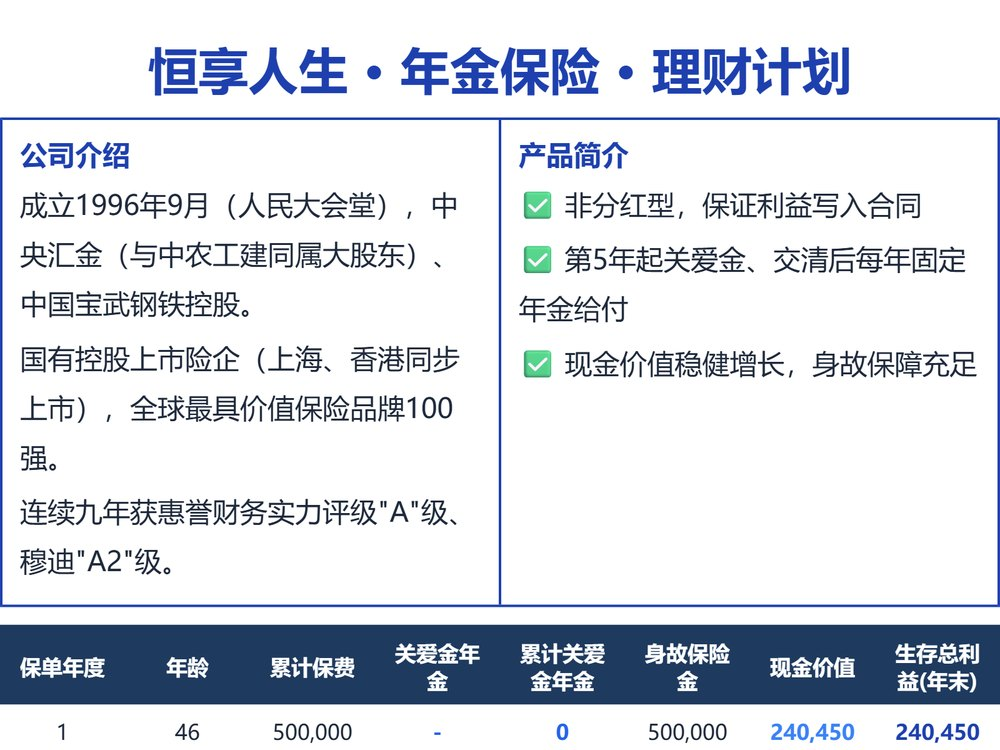
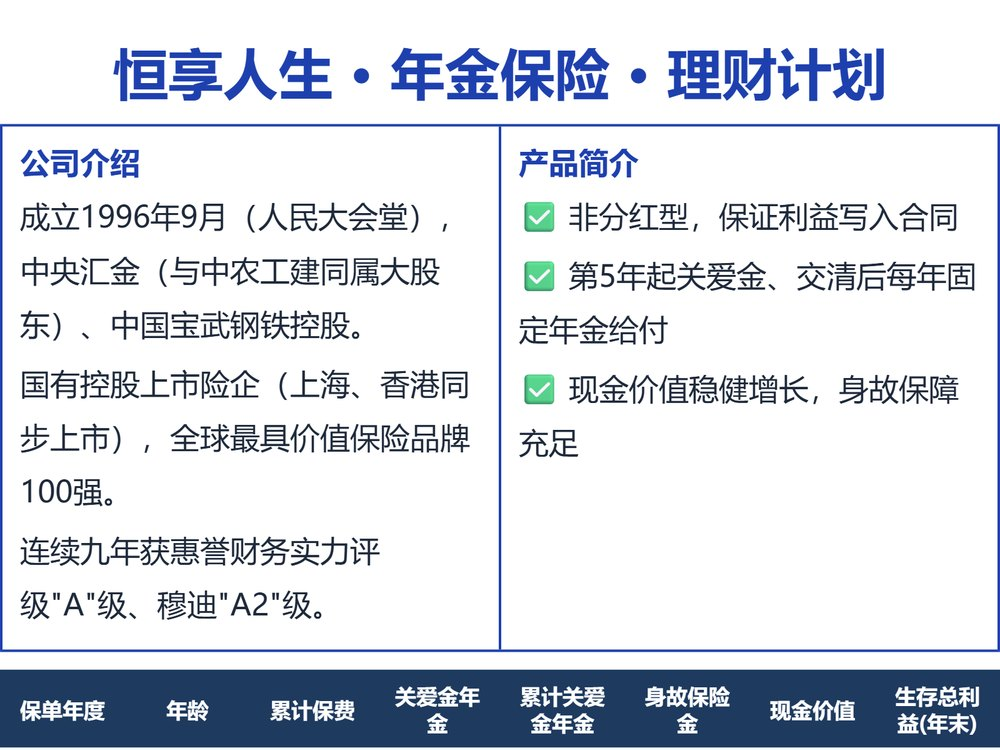
V3.0 导出图二次优化：统一放大表格字号28px/标题44px、储备期高亮、盈满鑫加宽至1800px、首页预览图同步更新

Changed region(s): [[0.0, 0.0613, 1.0, 1.0]]

diff --git a/calculator-yingmanxin.html b/calculator-yingmanxin.html
@@ -154,38 +154,39 @@ body.capturing .table-scroll{overflow-x:visible !important;}
 .combo-hl .cv{color:var(--primary);font-weight:800;font-size:18px;}
 
 /* ============ 独立隐藏导出模板（高清 PNG，不直接截取网页）============ */
-#exportRoot{position:absolute;left:-9999px;top:0;width:800px;background:#fff;z-index:-1;pointer-events:none;}
-.exp-wrap{width:800px;box-sizing:border-box;background:#fff;color:#1E293B;font-family:"PingFang SC","Microsoft YaHei",sans-serif;padding:36px;line-height:1.5;}
-.exp-title{text-align:center;font-size:40px;font-weight:800;color:var(--primary);margin:0 0 28px;letter-spacing:1px;}
+#exportRoot{position:absolute;left:-9999px;top:0;width:900px;background:#fff;z-index:-1;pointer-events:none;}
+.exp-wrap{width:900px;box-sizing:border-box;background:#fff;color:#1E293B;font-family:"PingFang SC","Microsoft YaHei",sans-serif;padding:40px;line-height:1.55;}
+.exp-title{text-align:center;font-size:44px;font-weight:800;color:var(--primary);margin:0 0 28px;letter-spacing:1px;}
 .exp-row2{display:flex;border:2px solid var(--primary);margin-bottom:18px;box-sizing:border-box;}
 .exp-box{border:2px solid var(--primary);background:#fff;padding:16px 18px;margin-bottom:18px;box-sizing:border-box;}
 .exp-row2 > .exp-box{flex:1;border:0;margin-bottom:0;}
 .exp-row2 > .exp-box:first-child{border-right:2px solid var(--primary);}
-.exp-h{background:var(--primary);color:#fff;font-size:24px;font-weight:700;padding:11px 14px;margin:-16px -18px 12px;box-sizing:border-box;}
-.exp-b{font-size:26px;line-height:1.9;color:#1E293B;}
-.exp-info{width:100%;border-collapse:collapse;table-layout:fixed;font-size:24px;border:2px solid var(--primary);box-sizing:border-box;}
+.exp-h{background:var(--primary);color:#fff;font-size:26px;font-weight:700;padding:11px 14px;margin:-16px -18px 12px;box-sizing:border-box;}
+.exp-b{font-size:28px;line-height:1.9;color:#1E293B;}
+.exp-info{width:100%;border-collapse:collapse;table-layout:fixed;font-size:26px;border:2px solid var(--primary);box-sizing:border-box;}
 .exp-info th,.exp-info td{border:1px solid var(--primary);padding:8px 6px;text-align:center;box-sizing:border-box;font-weight:600;color:#1E293B;}
 .exp-info th{background:var(--primary-bg);color:var(--primary);font-weight:700;}
 .exp-stats{display:flex;gap:12px;margin-top:12px;flex-wrap:wrap;}
-.exp-stats span{background:var(--primary-bg);border:1px solid #BFDBFE;color:var(--primary);padding:8px 16px;font-weight:700;font-size:22px;border-radius:6px;}
-.exp-main,.exp-dep{width:100%;border-collapse:collapse;table-layout:fixed;font-size:24px;box-sizing:border-box;margin-top:2px;}
-.exp-main th,.exp-main td,.exp-dep th,.exp-dep td{border:1px solid var(--primary);padding:10px 6px;text-align:center;vertical-align:middle;box-sizing:border-box;font-weight:600;color:#1E293B;}
+.exp-stats span{background:var(--primary-bg);border:1px solid #BFDBFE;color:var(--primary);padding:8px 16px;font-weight:700;font-size:24px;border-radius:6px;}
+.exp-main,.exp-dep{width:100%;border-collapse:collapse;table-layout:fixed;font-size:28px;box-sizing:border-box;margin-top:2px;}
+.exp-main th,.exp-main td,.exp-dep th,.exp-dep td{border:1px solid var(--primary);padding:12px 5px;text-align:center;vertical-align:middle;box-sizing:border-box;font-weight:600;color:#1E293B;}
 .exp-main th,.exp-dep th{background:var(--primary);color:#fff;font-weight:700;}
+.exp-main thead th{line-height:1.25;}
 .exp-main tbody tr:nth-child(even){background:#F0F9FF;}
 .exp-main .exp-total{background:#DBEAFE;}
-.exp-main .exp-reserve{background:#DBEAFE;color:#64748B;font-weight:700;text-align:center;vertical-align:middle;font-size:24px;}
+.exp-main .exp-reserve{background:#DBEAFE;color:#475569;font-weight:800;text-align:center;vertical-align:middle;font-size:28px;letter-spacing:1px;}
 .exp-dep tfoot td{border:1px solid var(--primary);padding:8px 5px;box-sizing:border-box;}
 .exp-dep .exp-foot-label{text-align:right;font-weight:700;background:var(--primary-bg);color:var(--primary);}
 .exp-dep .exp-foot-val{font-weight:800;color:var(--primary);}
-.exp-combo{width:100%;border-collapse:collapse;table-layout:fixed;font-size:24px;box-sizing:border-box;}
+.exp-combo{width:100%;border-collapse:collapse;table-layout:fixed;font-size:26px;box-sizing:border-box;}
 .exp-combo td{border:1px solid var(--primary);padding:6px 10px;box-sizing:border-box;width:25%;}
 .exp-combo .cl{background:var(--primary-bg);color:var(--primary);font-weight:700;}
 .exp-combo .cv{text-align:right;font-weight:700;color:#1E293B;}
 .exp-combo .hl{background:#DBEAFE;}
-.exp-combo .hl .cv{color:var(--primary);font-weight:800;font-size:19px;}
-.exp-note{margin-top:10px;padding:12px 14px;background:var(--primary-bg);border:1px solid #BFDBFE;border-radius:8px;font-size:20px;color:#334155;line-height:1.7;box-sizing:border-box;}
-.exp-foot{margin-top:18px;font-size:20px;color:#64748B;line-height:1.8;border-top:1px solid #E2E8F0;padding-top:10px;box-sizing:border-box;}
-.exp-foot2{margin-top:8px;font-size:20px;color:#64748B;text-align:center;letter-spacing:.5px;}
+.exp-combo .hl .cv{color:var(--primary);font-weight:800;font-size:21px;}
+.exp-note{margin-top:10px;padding:12px 14px;background:var(--primary-bg);border:1px solid #BFDBFE;border-radius:8px;font-size:22px;color:#334155;line-height:1.7;box-sizing:border-box;}
+.exp-foot{margin-top:18px;font-size:22px;color:#64748B;line-height:1.8;border-top:1px solid #E2E8F0;padding-top:10px;box-sizing:border-box;}
+.exp-foot2{margin-top:8px;font-size:22px;color:#64748B;text-align:center;letter-spacing:.5px;}
 </style>
 </head>
 <body>
@@ -802,7 +803,7 @@ async function downloadImage(){
       ctx.save();
       ctx.setTransform(1, 0, 0, 1, 0, 0);
       ctx.fillStyle = '#1E40AF';
-      ctx.font = `700 ${24 * scaleY}px Arial, "Microsoft YaHei", sans-serif`;
+      ctx.font = `700 ${28 * scaleY}px Arial, "Microsoft YaHei", sans-serif`;
       ctx.textAlign = 'center';
       ctx.textBaseline = 'middle';
       ctx.fillText(

diff --git a/calculator-hengxiang.html b/calculator-hengxiang.html
@@ -76,20 +76,21 @@
   .plan-intro h4{color:#1E40AF;font-size:14px;font-weight:700;margin-bottom:6px;}
   .plan-intro p{font-size:12.5px;line-height:1.65;color:#1E293B;margin:0 0 4px;}
   body.capturing .no-export{display:none !important;}
-body.capturing .plan-title{font-size:40px !important;line-height:1.3 !important;}
-body.capturing table{font-size:26px !important;min-width:0 !important;table-layout:fixed !important;width:100% !important;border-collapse:collapse;}
+body.capturing .plan-title{font-size:44px !important;line-height:1.3 !important;}
+body.capturing table{font-size:28px !important;min-width:0 !important;table-layout:fixed !important;width:100% !important;border-collapse:collapse;}
+body.capturing thead th{line-height:1.25 !important;}
 body.capturing th,body.capturing td{white-space:normal !important;word-break:break-word;}
-body.capturing .plan-intro{font-size:24px !important;}
-body.capturing .plan-intro p{font-size:22px !important;line-height:1.8 !important;}
-body.capturing .plan-intro h4{font-size:22px !important;}
+body.capturing .plan-intro{font-size:26px !important;}
+body.capturing .plan-intro p{font-size:24px !important;line-height:1.8 !important;}
+body.capturing .plan-intro h4{font-size:24px !important;}
 body.capturing .exp-foot-bar{display:block !important;box-sizing:border-box;margin:18px 0 0;padding:14px 16px;font-size:18px !important;color:#64748B;border-top:2px solid #E2E8F0;text-align:center;letter-spacing:.5px;}
 .exp-foot-bar{display:none;}
 
   body.capturing .wrap{max-width:800px !important;width:800px !important;margin:0 auto !important;}
   body.capturing .plan{padding:28px 0 4px !important;position:fixed !important;top:0 !important;left:0 !important;width:100vw !important;z-index:99999 !important;background:#fff !important;box-shadow:0 4px 24px rgba(0,0,0,.15) !important;display:flex !important;flex-direction:column !important;align-items:center !important;}
-  body.capturing .plan-title{margin-top:0 !important;padding:0 20px !important;width:100% !important;max-width:1200px !important;}
-  body.capturing .plan-intro{max-width:1200px !important;width:calc(100% - 64px) !important;}
-  body.capturing .table-scroll{max-width:1200px !important;width:calc(100% - 64px) !important;}
+  body.capturing .plan-title{margin-top:0 !important;padding:0 20px !important;width:100% !important;max-width:800px !important;}
+  body.capturing .plan-intro{max-width:800px !important;width:calc(100% - 64px) !important;}
+  body.capturing .table-scroll{max-width:800px !important;width:calc(100% - 64px) !important;}
   body.capturing .plan > *{max-width:800px !important;width:100% !important;box-sizing:border-box !important;}
   /* 与中行/宏安一致：强制公司介绍+产品简介横向双栏，保证整图顶部完整 */
   body.capturing .plan-intro{flex-direction:row !important;}

diff --git a/calculator-hongyuan.html b/calculator-hongyuan.html
@@ -33,10 +33,12 @@ input,select{padding:9px 12px;border:1.5px solid var(--line);border-radius:8px;f
 .view-mode-btn{padding:10px 20px;background:#fff;color:var(--primary);border:1.5px solid var(--primary);border-radius:8px;font-size:14px;font-weight:700;cursor:pointer;margin-left:10px;}
 .view-mode-btn:hover{background:var(--primary-bg);}
 body.capturing .no-export{display:none !important;}
-body.capturing .plan-title{font-size:40px !important;line-height:1.3 !important;}
-body.capturing .main-table{font-size:26px !important;min-width:0 !important;table-layout:fixed !important;width:100% !important;border-collapse:collapse;}
+body.capturing .plan-title{font-size:44px !important;line-height:1.3 !important;}
+body.capturing .main-table{font-size:28px !important;min-width:0 !important;table-layout:fixed !important;width:100% !important;border-collapse:collapse;}
+body.capturing .main-table thead th{line-height:1.25 !important;}
 body.capturing th,body.capturing td{white-space:normal !important;word-break:break-word;}
-body.capturing .intro-row,.body.capturing .side-stats{font-size:24px !important;line-height:1.7 !important;}
+body.capturing .intro-row,.body.capturing .side-stats{font-size:26px !important;line-height:1.7 !important;}
+body.capturing .reserve-cell{font-size:28px !important;font-weight:800 !important;color:#475569 !important;letter-spacing:1px !important;}
 body.capturing .exp-foot-bar{display:block !important;box-sizing:border-box;margin:18px 0 0;padding:14px 16px;font-size:18px !important;color:#64748B;border-top:2px solid #E2E8F0;text-align:center;letter-spacing:.5px;}
 .exp-foot-bar{display:none;}
 
@@ -47,7 +49,7 @@ body.capturing .plan > *{max-width:800px !important;width:100% !important;box-si
 body.capturing .intro-row{flex-direction:row !important;width:calc(100% - 64px) !important;}
 body.capturing .side-stats{flex-direction:row !important;border-top:0 !important;width:calc(100% - 64px) !important;}
 body.capturing .plan-title{padding:0 20px !important;width:100% !important;}
-body.capturing .main-table{font-size:17px !important;min-width:100% !important;width:calc(100% - 64px) !important;}
+body.capturing .main-table{min-width:100% !important;width:calc(100% - 64px) !important;}
 body.capturing .table-scroll{overflow-x:visible !important;width:calc(100% - 64px) !important;}
 
 .plan{padding:28px 32px 4px;background:#fff;}

diff --git a/calculator-hongyu.html b/calculator-hongyu.html
@@ -92,16 +92,16 @@ body.capturing .exp-foot-bar{display:block !important;box-sizing:border-box;marg
 body.capturing .wrap{max-width:800px !important;width:800px !important;}
 body.capturing .plan{width:800px !important;padding:28px 24px 4px !important;}
 body.capturing .plan > *{max-width:800px !important;width:100% !important;box-sizing:border-box !important;}
-body.capturing .plan-title{margin-top:0 !important;font-size:40px !important;line-height:1.3 !important;}
-body.capturing .plan-intro h4{font-size:24px !important;}
-body.capturing .plan-intro p{font-size:22px !important;line-height:1.8 !important;}
-body.capturing #paramBar{font-size:24px !important;}
-body.capturing #paramBar strong{font-size:25px !important;}
-body.capturing #paramBar span{font-size:22px !important;}
-body.capturing table{min-width:0 !important;font-size:24px !important;table-layout:fixed !important;width:100% !important;border-collapse:collapse;}
+body.capturing .plan-title{margin-top:0 !important;font-size:44px !important;line-height:1.3 !important;}
+body.capturing .plan-intro h4{font-size:26px !important;}
+body.capturing .plan-intro p{font-size:24px !important;line-height:1.8 !important;}
+body.capturing #paramBar{font-size:26px !important;}
+body.capturing #paramBar strong{font-size:28px !important;}
+body.capturing #paramBar span{font-size:24px !important;}
+body.capturing table{min-width:0 !important;font-size:28px !important;table-layout:fixed !important;width:100% !important;border-collapse:collapse;}
 body.capturing th,body.capturing td{white-space:normal !important;word-break:break-word;}
-body.capturing thead th{position:static !important;font-size:26px !important;padding:12px 8px !important;}
-body.capturing tbody td{font-size:24px !important;padding:12px 8px !important;}
+body.capturing thead th{position:static !important;font-size:30px !important;line-height:1.25 !important;padding:12px 8px !important;}
+body.capturing tbody td{font-size:28px !important;padding:12px 8px !important;}
 body.capturing .table-scroll{overflow:visible !important;}
 @media(max-width:768px){
   .plan-intro{flex-direction:column;}

diff --git a/calculator-hongan.html b/calculator-hongan.html
@@ -75,12 +75,13 @@ input,select{padding:9px 12px;border:1.5px solid var(--line);border-radius:8px;f
 .view-mode-btn:hover{background:var(--primary-bg);}
 body.capturing .no-export{display:none !important;}
 /* V3.0 导出图优化：固定800px宽 + 放大字号 + 底部信息 */
-body.capturing .plan-title{font-size:40px !important;line-height:1.3 !important;}
-body.capturing .main-table{font-size:26px !important;min-width:0 !important;table-layout:fixed !important;width:100% !important;border-collapse:collapse;}
+body.capturing .plan-title{font-size:44px !important;line-height:1.3 !important;}
+body.capturing .main-table{font-size:28px !important;min-width:0 !important;table-layout:fixed !important;width:100% !important;border-collapse:collapse;}
+body.capturing .main-table thead th{line-height:1.25 !important;}
 body.capturing th,body.capturing td{white-space:normal !important;word-break:break-word;}
-body.capturing .info-table{font-size:22px !important;}
-body.capturing .intro-row,.body.capturing .stats-row,.body.capturing .stat-inline-box{font-size:24px !important;line-height:1.7 !important;}
-body.capturing .reserve-merged{font-size:26px !important;}
+body.capturing .info-table{font-size:24px !important;}
+body.capturing .intro-row,.body.capturing .stats-row,.body.capturing .stat-inline-box{font-size:26px !important;line-height:1.7 !important;}
+body.capturing .reserve-merged{font-size:28px !important;font-weight:800 !important;color:#475569 !important;letter-spacing:1px !important;}
 body.capturing .exp-foot-bar{display:block !important;box-sizing:border-box;margin:18px 0 0;padding:14px 16px;font-size:18px !important;color:#64748B;border-top:2px solid #E2E8F0;text-align:center;letter-spacing:.5px;}
 .exp-foot-bar{display:none;}
 
